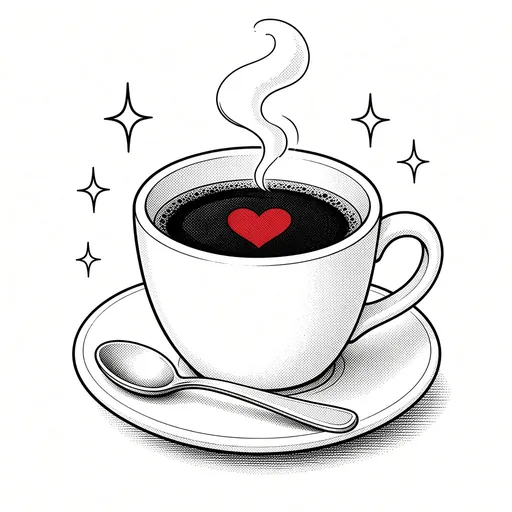
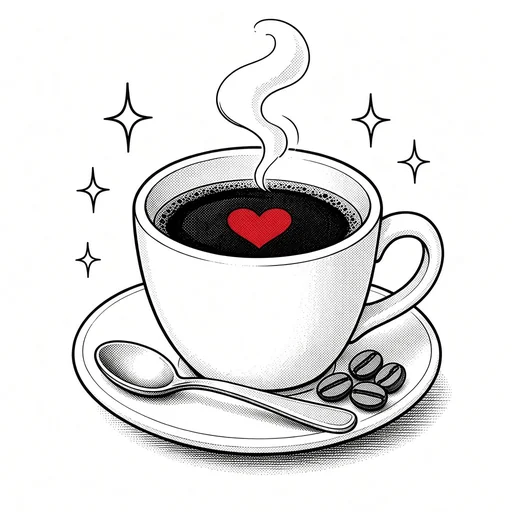
Add second batch of word pictures (83 total)
48 new pictures for Rodina, Ve městě and Pocity, plus redrawn káva,
hrnek, maso, polévka, stůl, sýr, víno and židle.

diff --git a/src/pics.js b/src/pics.js
@@ -1,7 +1,6 @@
 /* Word pictures: Czech word (exactly as in the course data) -> file in public/manga/words/.
    Words without an entry simply show no picture. */
 export const PICS = {
-  // Jídlo a pití
   "voda": 'voda.webp',
   "káva": 'kava.webp',
   "čaj": 'caj.webp',
@@ -21,7 +20,6 @@ export const PICS = {
   "Dobrou chuť!": 'dobrou-chut.webp',
   "Na zdraví!": 'na-zdravi.webp',
   "Účet, prosím": 'ucet-prosim.webp',
-  // Věci
   "klíč": 'klic.webp',
   "telefon": 'telefon.webp',
   "taška": 'taska.webp',
@@ -38,6 +36,54 @@ export const PICS = {
   "počítač": 'pocitac.webp',
   "pero": 'pero.webp',
   "hrnek": 'hrnek.webp',
+  "Mám hlad": 'mam-hlad.webp',
+  "Mám žízeň": 'mam-zizen.webp',
+  "Jsem unavená": 'jsem-unavena.webp',
+  "Jsem šťastná": 'jsem-stastna.webp',
+  "Je mi zima": 'je-mi-zima.webp',
+  "Je mi teplo": 'je-mi-teplo.webp',
+  "Bolí mě hlava": 'boli-me-hlava.webp',
+  "Nevím": 'nevim.webp',
+  "To je super!": 'to-je-super.webp',
+  "Těším se": 'tesim-se.webp',
+  "Mám tě ráda": 'mam-te-rada.webp',
+  "Miluju tě": 'miluju-te.webp',
+  "rodina": 'rodina.webp',
+  "máma": 'mama.webp',
+  "matka": 'matka.webp',
+  "táta": 'tata.webp',
+  "otec": 'otec.webp',
+  "rodiče": 'rodice.webp',
+  "manžel": 'manzel.webp',
+  "manželka": 'manzelka.webp',
+  "syn": 'syn.webp',
+  "dcera": 'dcera.webp',
+  "bratr": 'bratr.webp',
+  "sestra": 'sestra.webp',
+  "starší bratr": 'starsi-bratr.webp',
+  "mladší sestra": 'mladsi-sestra.webp',
+  "babička": 'babicka.webp',
+  "dědeček": 'dedecek.webp',
+  "dítě": 'dite.webp',
+  "děti": 'deti.webp',
+  "teta": 'teta.webp',
+  "strýc": 'stryc.webp',
+  "tchýně": 'tchyne.webp',
+  "Kde je…?": 'kde-je.webp',
+  "nádraží": 'nadrazi.webp',
+  "zastávka": 'zastavka.webp',
+  "tramvaj": 'tramvaj.webp',
+  "metro": 'metro.webp',
+  "náměstí": 'namesti.webp',
+  "ulice": 'ulice.webp',
+  "nemocnice": 'nemocnice.webp',
+  "lékárna": 'lekarna.webp',
+  "záchod": 'zachod.webp',
+  "doleva": 'doleva.webp',
+  "doprava": 'doprava.webp',
+  "rovně": 'rovne.webp',
+  "blízko": 'blizko.webp',
+  "daleko": 'daleko.webp',
 };
 
 const DIR = import.meta.env.BASE_URL + 'manga/words/';
